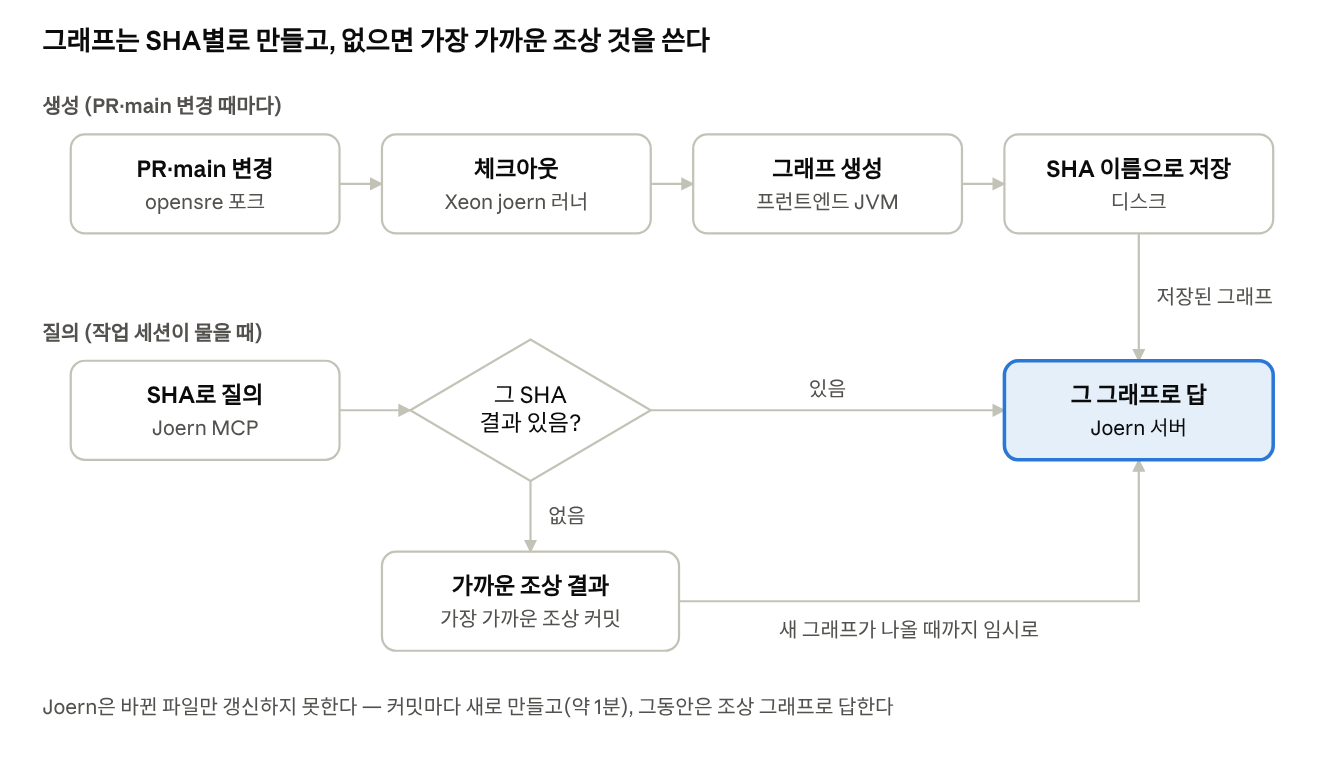
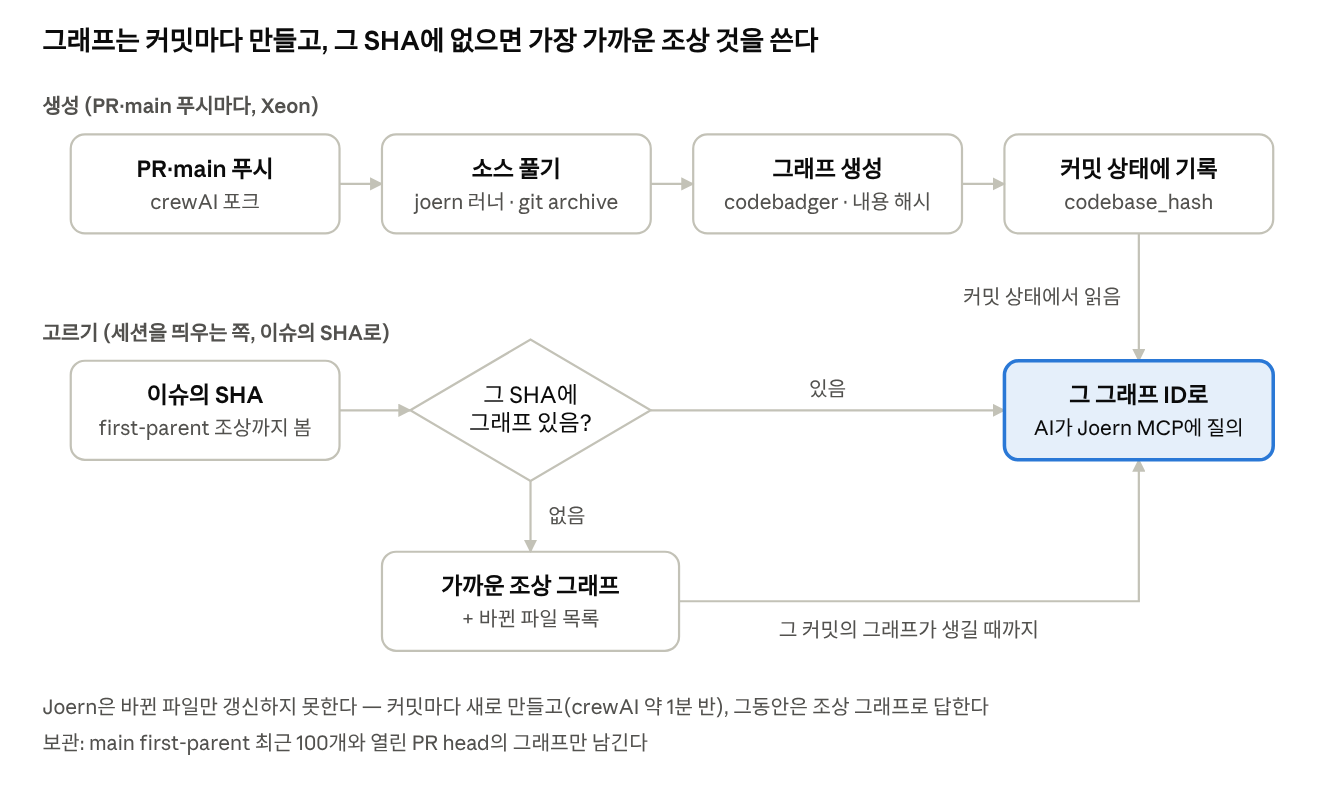
Rewrite README and usage for AI sessions, add setup guide, update architecture from step 8

diff --git a/docs/usage.md b/docs/usage.md
@@ -1,159 +1,38 @@
-# codeinside 도구 사용법
+# 도구 규칙
 
-crewAI 포크(`Munsik-Park/crewAI`)의 커밋 하나를 놓고 세 도구로 코드를 찾고 따라가는 방법이다. 명령은 4~6단계 기록에서 실제로 돌린 것이고, 그렇지 않은 것은 그 자리에 적었다. 근거는 각 절 끝에 있다.
+AI 세션용이다. 언제 어느 MCP를 쓰는지는 [README](../README.md), 환경 구축은 [setup.md](setup.md)에 있다.
 
-## 무엇을 언제 쓰나
+## ast-grep
 
-| 도구 | 이렇게 물을 때 | 도는 곳 | 주의 |
-| --- | --- | --- | --- |
-| ast-grep | 패턴에 맞는 곳을 레포 전체에서 넓게 찾기. 사전 스크립트가 규칙 5개로 후보 목록을 만든다 | 작업자 쪽 | 규칙은 opensre 때 만든 일반 Python 규칙이다. crewAI의 `lib/*/tests`도 후보에 들어간다 |
-| Serena (Pyright) | 이 심볼을 실제로 참조하는 곳, 정의, 구현 | 작업자 쪽 | 읽기 전용이다. 편집, 셸, 메모리 도구는 꺼져 있다 |
-| Joern (codebadger MCP) | 호출 관계를 몇 단계 따라가기, 데이터 흐름(어디서 들어온 값이 어디로 가나) | Xeon | 테스트 폴더는 그래프에 없다. 흔한 이름의 호출 관계는 틀린다(아래 한계) |
-
-순서는 이렇다. 후보 목록으로 넓게 보고, 정확한 참조는 Serena에, 흐름은 Joern에 묻는다.
-
-## 준비 (한 번)
-
-### 설치
-
-| 구성 | 버전 | 설치 |
-| --- | --- | --- |
-| ast-grep CLI | 0.51.2 | `brew install ast-grep` |
-| uv | 0.11.32에서 확인 | uv 문서의 설치 방법 |
-| Serena | 2.1.0 | `uv tool install -p 3.13 serena-agent==2.1.0` |
-| Pyright | 1.1.403 | 따로 설치하지 않는다. Serena가 uvx로 띄운다 |
-| gh | 인증된 상태 | 그래프 고르기가 `gh api graphql`로 커밋 상태를 읽는다 |
-| Claude Code | 2.1.322에서 확인 | MCP를 세션에 붙일 때만 필요 |
-
-근거: [4단계 기록](measurements/2026-11-12-serena-joern/README.md) 1절, [crewAI 기준값](measurements/2026-11-12-crewai-baseline/README.md) 측정 조건.
-
-### 변수
-
-아래 명령은 이 세 값을 쓴다.
-
-```bash
-export CODEINSIDE_DIR=<codeinside 체크아웃>
-export CREWAI_DIR=<crewAI 포크 체크아웃>   # codeinside 폴더 밖에 둔다
-export MCP_URL=http://127.0.0.1:<로컬 포트>/mcp
-```
-
-codebadger MCP는 Xeon 루프백(4242)에만 열려 있고 인증이 없다. 작업자 쪽에서는 SSH 터널로 로컬 포트에 붙인다. 터널 명령과 호스트는 커밋하지 않는 로컬 설정(`CLAUDE.local.md`)에 있다. 이 레포에는 적지 않는다.
-
-### crewAI 체크아웃에 Serena 설정 두기
-
-```bash
-mkdir -p "$CREWAI_DIR/.serena"
-sed 's/^project_name: .*/project_name: "crewAI"/' \
-  "$CODEINSIDE_DIR/config/serena/project.yml" > "$CREWAI_DIR/.serena/project.yml"
-python3 -c 'import json,sys; d=json.load(open(sys.argv[1])); d.pop("//",None); json.dump(d,open(sys.argv[2],"w"),indent=2)' \
-  "$CODEINSIDE_DIR/config/serena/crewai/pyrightconfig.json" "$CREWAI_DIR/pyrightconfig.json"
-```
-
-- `pyrightconfig.json`은 `lib/*/src` 6개를 import 경로에 더한다. 없으면 패키지를 넘는 참조와 테스트 쪽 참조가 풀리지 않는다.
-- 두 파일은 crewAI 쪽에 커밋하지 않는다.
-- `scripts/mcp/register.sh`는 opensre용 `project_name`을 복사하고 Pyright 설정을 두지 않는다. crewAI에는 위 명령을 쓴다.
-
-근거: [crewAI 기준값](measurements/2026-11-12-crewai-baseline/README.md) 5절, [measurements/2026-11-12-crewai-baseline/scripts/serena-refs.sh](measurements/2026-11-12-crewai-baseline/scripts/serena-refs.sh).
-
-## 1. 후보 목록 (ast-grep)
-
-분석할 커밋을 체크아웃한 뒤 돌린다.
-
-```bash
-cd "$CREWAI_DIR" && git checkout <SHA>
-python3 "$CODEINSIDE_DIR/scripts/screen/candidates.py" "$CREWAI_DIR" -o candidates.json
-```
-
-- 출력에는 ast-grep 버전, `repo_sha`, 커밋 안 된 변경이 있는지(`repo_dirty`), 규칙별 개수, 후보(파일, 시작·끝 위치, 일치한 첫 줄)가 들어간다.
-- 정렬된 JSON이라 같은 커밋에서 두 번 돌리면 바이트 단위로 같다.
-- 규칙: 환경 변수 읽기, 함수 안 `global`, 테스트 밖 `assert`, `pass`뿐인 `except`, `shell=True` subprocess. 설명은 [config/ast-grep/README.md](../config/ast-grep/README.md)에 있다.
-
-근거: [crewAI 기준값](measurements/2026-11-12-crewai-baseline/README.md) 6절.
-
-## 2. 그 커밋의 Joern 그래프 고르기
-
-포크의 PR이나 main 푸시마다 Xeon의 분석 워크플로가 그래프를 만들고, 커밋 상태 `codeinside/joern-cpg`에 `codebase_hash`를 적는다. 질의할 해시는 이 상태에서 고른다.
-
-```bash
-python3 "$CODEINSIDE_DIR/scripts/joern/resolve_graph.py" \
-  --checkout "$CREWAI_DIR" --sha <SHA> --repo Munsik-Park/crewAI --mcp-url "$MCP_URL"
-```
-
-| 출력 | 뜻 |
+| 도구 | 주요 인자 |
 | --- | --- |
-| `exact: true` | 그 커밋의 그래프다 |
-| `exact: false`, `changed_files` | first-parent 조상의 그래프로 대신했다. 목록의 파일은 답이 요청한 커밋과 다를 수 있다 |
-| `graph_sha: null` | 조상 100개 안에 그래프가 없다. 종료 코드 2 |
-| `codebadger_status: loading` | 잠든 그래프를 올리는 중이다. 재부팅 뒤 기준 그래프는 약 62초 걸렸다. 아래 명령으로 `ready`가 될 때까지 기다린 뒤 3절로 넘어간다 |
+| `find_code` | `project_folder`(체크아웃 절대 경로), `pattern`, `language`(`python`), `max_results`, `output_format`(`text`/`json`) |
+| `find_code_by_rule` | `project_folder`, `yaml`(`id`, `language`, `rule` 필수) |
+| `dump_syntax_tree` | `code`, `language`, `format`(`cst`/`ast`/`pattern`) |
+| `test_match_code_rule` | `code`, `yaml` |
 
-`loading`일 때 질의하면 `success: true`가 오지만, `data`에는 결과 대신 Joern REPL 시작 출력이 오고 끝에 `No projects loaded`가 붙는다. 결과가 비었다고 읽지 않도록 먼저 상태를 확인한다.
+사전 후보 목록의 규칙은 [config/ast-grep/](../config/ast-grep/README.md)에 있다.
 
-```bash
-uv run --no-project -q --with mcp==2.2.0 python "$CODEINSIDE_DIR/scripts/mcp/mcp_call.py" --url "$MCP_URL" \
-  --call get_cpg_status '{"codebase_hash":"<해시>"}'
-```
+## Serena
 
-출력 마지막 줄 `text`의 `status`가 `ready`이면 묻는다.
+읽기 도구 5개만 켜져 있다. `relative_path`는 체크아웃 루트 기준, `name_path`는 파일 안 심볼 경로(`BaseLLM/_emit_call_completed_event`)다.
 
-### 그래프가 없을 때
-
-포크 업스트림의 옛 커밋에는 그래프가 없다. 그 커밋을 가리키는 브랜치를 `Munsik-Park/crewAI`에 올리고 PR을 열면 워크플로가 그래프를 만든다. crewAI 규모에서 요청부터 ready까지 약 91~94초였다.
-
-- 다른 레포에서 온 PR은 워크플로가 돌지 않는다. 브랜치는 포크 안에 있어야 한다.
-- 그래프는 main first-parent 최근 100개와 열린 PR head만 남는다. PR을 닫으면 다음 정리 때 지워진다.
-
-근거: [6단계 기록](measurements/2026-11-12-pr-analysis/README.md) 6~8절.
-
-## 3. 묻기
-
-### 명령으로
-
-```bash
-uv run --no-project -q --with mcp==2.2.0 python "$CODEINSIDE_DIR/scripts/mcp/mcp_call.py" --url "$MCP_URL" \
-  --call run_cpgql_query '{"codebase_hash":"<해시>","query":"cpg.method.fullNameExact(\"lib/crewai/src/crewai/llms/base_llm.py:<module>.BaseLLM._emit_call_completed_event\").callIn.method.fullName.dedup.l"}'
-```
-
-- 첫 줄은 도구 목록, 이어서 `--call`마다 결과가 한 줄씩 나온다. `--call`은 여러 번 줄 수 있다.
-- 메서드 이름은 `<레포 기준 파일 경로>:<module>.<클래스>.<메서드>` 꼴이다.
-- 질의 예시 5개(호출하는 함수, 호출되는 함수, 두 단계 호출, 데이터 흐름 2개)는 [config/queries/crewai.json](../config/queries/crewai.json)에 있다.
-- `run_cpgql_query`의 인자는 `codebase_hash`, `query`, `timeout`(초), `validate`다.
-
-Serena도 같은 스크립트로 서버를 띄워 물을 수 있다.
-
-```bash
-uv run --no-project --with mcp==2.2.0 python "$CODEINSIDE_DIR/scripts/mcp/mcp_call.py" \
-  --call find_referencing_symbols '{"name_path":"BaseLLM/_emit_call_completed_event","relative_path":"lib/crewai/src/crewai/llms/base_llm.py"}' \
-  -- serena start-mcp-server --context "$CODEINSIDE_DIR/config/serena/context-readonly.yml" --project "$CREWAI_DIR" \
-     --agent-interface tools --enable-web-dashboard False --open-web-dashboard False
-```
-
-### Claude Code 세션에 붙여서
-
-codeinside 폴더에서 한 번 등록한다. `--scope local`이라 절대 경로는 사용자 설정에만 남고 레포에는 들어가지 않는다. 같은 이름이 이미 있으면 `claude mcp add`는 `already exists in local config`로 실패하므로(예: 4단계에서 `register.sh`로 opensre를 붙여 둔 경우), 먼저 지운다.
-
-```bash
-cd "$CODEINSIDE_DIR"
-for s in ast-grep serena joern; do claude mcp remove --scope local "$s" 2>/dev/null || true; done
-claude mcp add --scope local ast-grep -- \
-  uvx --from "git+https://github.com/ast-grep/ast-grep-mcp@51d5a23f025c73c02032a98748dc06942548c5e1" ast-grep-server
-claude mcp add --scope local serena -- \
-  serena start-mcp-server --context "$CODEINSIDE_DIR/config/serena/context-readonly.yml" --project "$CREWAI_DIR" \
-    --agent-interface tools --enable-web-dashboard False --open-web-dashboard False
-claude mcp add --scope local --transport http joern "$MCP_URL"
-claude mcp list
-```
-
-| 서버 | 쓰는 도구 |
+| 도구 | 주요 인자 |
 | --- | --- |
-| ast-grep | `find_code`(`project_folder`, `language`, `pattern`) |
-| serena | `get_symbols_overview`, `find_symbol`, `find_referencing_symbols`, `find_declaration`, `find_implementations` |
-| joern | `run_cpgql_query`, `get_cpg_status`. 해시는 2절에서 고른 것을 세션에 알려 준다 |
+| `get_symbols_overview` | `relative_path` |
+| `find_symbol` | `name_path_pattern`, `relative_path`, `depth`, `include_body` |
+| `find_referencing_symbols` | `name_path`, `relative_path`(그 심볼이 있는 파일) |
+| `find_declaration` | `relative_path`, `regex`(찾을 심볼을 그룹 하나로 감싼 정규식) |
+| `find_implementations` | `name_path`, `relative_path`(파일만) |
 
-근거: `scripts/mcp/register.sh`(ast-grep, serena 등록), [5단계 기록](measurements/2026-11-12-joern-mcp/README.md) 5절(세 서버를 한 세션에서 부름). 5단계에서는 joern을 세션 설정 파일(`--mcp-config`의 `"type": "http"`)로 붙였다. `claude mcp add --transport http`로 붙이는 것은 `claude mcp add --help`에 있는 방법이고, [사용법 확인 기록](measurements/2026-11-12-usage-check/README.md)에서 돌려 `claude mcp list`가 `Connected`를 보였다.
+## Joern
 
-## 한계
+| 도구 | 주요 인자 |
+| --- | --- |
+| `get_cpg_status` | `codebase_hash`. 응답의 `status`가 `ready`여야 묻는다 |
+| `run_cpgql_query` | `codebase_hash`, `query`(CPGQL), `timeout`(초), `validate` |
 
-- 흔한 이름(`close` 같은)이나 다른 곳에서 다시 내보낸 심볼은 Joern 호출 관계를 쓰지 않는다. crewAI `Memory.close`는 Joern이 이은 7곳이 모두 다른 객체의 `close()`였다. 이런 경우는 Serena에 묻는다.
-- Joern 그래프에는 `tests/`, `lib/*/tests/`, `platform_catalog.py`가 빠져 있다. 테스트에서의 호출은 Serena로 본다.
-- codebadger는 같은 질의 결과를 300초 동안 캐시한다. 시간을 잴 때는 질의 문자열을 바꾼다.
-- 조상 그래프로 대신했으면 `changed_files`에 있는 파일의 답은 믿지 않는다.
+- 메서드 이름: `<레포 기준 파일 경로>:<module>.<클래스>.<메서드>`. 예: `lib/crewai/src/crewai/llms/base_llm.py:<module>.BaseLLM._emit_call_completed_event`
+- `loading` 중 응답: `success: true`이고, `data`는 결과 대신 Joern REPL 시작 출력이며 끝 줄이 `io.joern.console.Error: No projects loaded`다([확인 기록](measurements/2026-11-12-usage-check/README.md) 2절).
+- 같은 질의 문자열의 결과는 300초 동안 캐시된다.
+- 질의 예시: [config/queries/crewai.json](../config/queries/crewai.json)(Q1 호출하는 함수, Q2 호출되는 함수, Q3 두 단계 호출, Q4와 Q5 데이터 흐름)

diff --git a/docs/setup.md b/docs/setup.md
@@ -1,0 +1,44 @@
+# 환경 구축
+
+순서대로 한다. 각 스크립트의 사용법은 머리 주석에 있다. 서버 주소, 계정, 터널 명령은 이 레포에 넣지 않는다.
+
+## 1. Xeon
+
+| 할 일 | 링크 |
+| --- | --- |
+| codebadger 올리기(패치, 설정) | [scripts/xeon/deploy-codebadger.sh](../scripts/xeon/deploy-codebadger.sh), [config/codebadger/](../config/codebadger/) |
+| 이미지 묶음 저장, 부팅 복원 유닛 | [scripts/xeon/save-codebadger-images.sh](../scripts/xeon/save-codebadger-images.sh), [config/codebadger/systemd/](../config/codebadger/systemd/) |
+| 분석 러너 설치 | [scripts/xeon/joern-ci/install.sh](../scripts/xeon/joern-ci/install.sh), [config/joern-ci/runner.conf.example](../config/joern-ci/runner.conf.example) |
+
+## 2. 대상 레포 CI 연결
+
+| 할 일 | 링크 |
+| --- | --- |
+| 워크플로 견본을 대상 레포 `.github/workflows/`에 복사 | [config/joern-ci/workflow.example.yml](../config/joern-ci/workflow.example.yml) |
+| 러너 대상 레포 변경 | [scripts/xeon/joern-ci/retarget.sh](../scripts/xeon/joern-ci/retarget.sh) |
+| 그래프 제외 규칙(`exclusion_patterns`) | [config/codebadger/codebadger-v0.7.0-beta.patch](../config/codebadger/codebadger-v0.7.0-beta.patch) |
+| 확인 질의 파일 | [config/queries/crewai.json](../config/queries/crewai.json) |
+
+## 3. AI가 도는 머신
+
+| 구성 | 버전 | 설치 |
+| --- | --- | --- |
+| ast-grep CLI | 0.51.2 | `brew install ast-grep` |
+| uv | 0.11.32 | uv 문서의 설치 방법 |
+| Serena | 2.1.0 | `uv tool install -p 3.13 serena-agent==2.1.0` |
+| Pyright | 1.1.403 | Serena가 uvx로 띄운다 |
+| gh | 인증된 상태 | 그래프 고르기가 커밋 상태를 읽는다 |
+| Claude Code | 2.1.322 | |
+
+- MCP 등록: [scripts/mcp/register.sh](../scripts/mcp/register.sh). Pyright 설정 예: [config/serena/crewai/pyrightconfig.json](../config/serena/crewai/pyrightconfig.json)
+- `JOERN_MCP_URL`은 커밋하지 않는 로컬 설정에서 읽는다.
+
+## 4. 세션을 띄우는 쪽
+
+- 이슈의 SHA를 그래프 ID로 바꾼다: [scripts/joern/resolve_graph.py](../scripts/joern/resolve_graph.py)
+- 세션에는 체크아웃 경로, SHA, 출력의 `codebase_hash`를 넘긴다. `exact: false`이면 `changed_files`도 넘긴다.
+
+## 5. 확인 기록
+
+- [2026-11-12-usage-check](measurements/2026-11-12-usage-check/README.md): 명령을 crewAI에서 다시 돌린 결과
+- [2026-11-12-ai-docs](measurements/2026-11-12-ai-docs/README.md): 등록 스크립트, 워크플로 견본, AI 세션 확인

diff --git a/docs/architecture.md b/docs/architecture.md
@@ -1,20 +1,20 @@
 # AI 코드 분석 도구 아키텍처
 
-2026-11-11 · 원본: [claude.ai 문서](https://claude.ai/artifact/2PktctuX9b6wScTJREtxjf). 이 파일은 작업자가 읽을 수 있도록 레포에 넣은 사본이다. 원본이 바뀌면 이 파일도 같이 고친다.
+2026-11-12 · 원본: [claude.ai 문서](https://claude.ai/artifact/2PktctuX9b6wScTJREtxjf). 이 파일은 작업자가 읽을 수 있도록 레포에 넣은 사본이다. 원본이 바뀌면 이 파일도 같이 고친다.
 
 단계별 일정과 남은 결정은 [plan.md](plan.md)에 있다.
 
 ## 한눈에 보기
 
-![전체 블록도 · GitHub, Xeon, Ryzen, 작업자 쪽](images/arch-overview.png)
+![전체 블록도 · GitHub, Xeon, Ryzen, AI가 도는 머신](images/arch-overview.png)
 
 Xeon만 새 역할을 맡고, Ryzen은 지금처럼 러너로만 쓴다.
 
 ## Xeon 내부
 
-![Xeon 내부 · NUMA 노드와 JVM 배치](images/arch-xeon-numa.png)
+![Xeon 내부 · NUMA 노드 3과 메모리 배치](images/arch-xeon-numa.png)
 
-노드 번호와 `-Xmx` 값은 기준값을 잰 뒤에 정한다.
+값을 정한 근거는 [5단계 기록](measurements/2026-11-12-joern-mcp/README.md)에 있다.
 
 ## 분석 흐름
 
@@ -22,11 +22,11 @@ Xeon만 새 역할을 맡고, Ryzen은 지금처럼 러너로만 쓴다.
 
 브랜치 이름이 아니라 커밋 SHA로 찾으므로, 같은 커밋은 언제 물어도 같은 그래프가 답한다.
 
-## criterion review와 도구
+## AI 세션과 도구
 
-![criterion review 단계와 도구 대응](images/arch-criterion-review.png)
+![질문별 도구 고르기](images/arch-ai-session.png)
 
-도구는 찾기와 따라가기만 맡고, 항목을 뽑고 판정하는 일은 AI가 그대로 한다.
+도구는 찾기와 따라가기만 맡고, 판정은 AI가 한다. 세션을 띄우는 쪽이 이슈의 SHA를 그래프 ID로 바꿔 넘긴다.
 
 ## codeinside 레포 구성
 

diff --git a/README.md b/README.md
@@ -1,11 +1,31 @@
 # codeinside
 
-AI 코드 분석 도구(ast-grep, Joern) 도입을 실험하는 레포다.
+분석 대상 레포의 코드를 AI 세션이 MCP 3개로 찾고 따라가게 하는 도구 레포다.
 
-- 대상 레포: [Munsik-Park/crewAI](https://github.com/Munsik-Park/crewAI) 포크(6단계부터)
-- 3~5단계 시험 레포: [Munsik-Park/opensre](https://github.com/Munsik-Park/opensre) 포크
-- 분석 서버: 사내 Xeon 서버
+## MCP
 
-계획은 [docs/plan.md](docs/plan.md), 구조는 [docs/architecture.md](docs/architecture.md)에 있다.
+| MCP | 쓰는 질문 |
+| --- | --- |
+| ast-grep | 패턴에 맞는 곳을 레포 전체에서 넓게 찾기 |
+| Serena | 심볼을 실제로 참조하는 곳, 정의, 구현 |
+| Joern | 호출 관계를 몇 단계 따라가기, 값의 흐름 |
 
-사용법은 [docs/usage.md](docs/usage.md)에 있다.
+## 세션이 받는 값
+
+- 분석 대상 체크아웃 경로
+- 이슈의 SHA
+- 그 SHA의 그래프 ID(`codebase_hash`)
+
+## 규칙
+
+- Joern은 `get_cpg_status`가 `ready`일 때만 묻는다.
+- 흔한 이름이나 다시 내보낸 심볼의 호출 관계는 Serena로 본다.
+- 테스트 폴더는 Joern 그래프에 없다. 테스트 쪽은 Serena로 본다.
+- 조상 그래프로 받았으면 바뀐 파일 목록에 든 파일의 답은 믿지 않는다.
+
+## 문서
+
+- [docs/usage.md](docs/usage.md): 도구 이름, 인자, 응답 모양
+- [docs/setup.md](docs/setup.md): 환경 구축
+- [docs/architecture.md](docs/architecture.md): 구성
+- [docs/plan.md](docs/plan.md): 계획과 단계 기록

diff --git a/docs/measurements/2026-11-12-ai-docs/README.md b/docs/measurements/2026-11-12-ai-docs/README.md
@@ -8,3 +8,13 @@
 | `.serena/project.yml` | `project_name: "crewAI"`. 설정 값 13개가 [사용법 확인](../2026-11-12-usage-check/README.md) 방식으로 만든 파일과 같다 | [serena-pyright-compare.log](raw/serena-pyright-compare.log) |
 | `pyrightconfig.json` | 사용법 확인 때 만든 파일과 바이트 단위로 같다. `extraPaths` 6개 | 같은 파일 |
 | `config/joern-ci/workflow.example.yml` | crewAI main(`76fd6d3`) 워크플로와의 차이는 머리 주석 5줄뿐이다 | [workflow-example.diff](raw/workflow-example.diff) |
+
+## 2. AI 세션 확인
+
+`claude -p`에 README.md 읽기와 MCP 3개만 허용했다(`--strict-mcp-config`). 받은 값은 crewAI 체크아웃, main `76fd6d3`, 그래프 ID `adfc58f938d764b9`다([ai-session.log](raw/ai-session.log)).
+
+| 질문 | 세션이 고른 도구 | 답 | 기준 |
+| --- | --- | --- | --- |
+| `BaseLLM._emit_call_completed_event`를 실제로 참조하는 곳 | `get_cpg_status`(ready 확인), Serena `find_referencing_symbols` | 73 | Serena 73, 같다 |
+| 그 함수를 부르는 함수, 두 단계 위까지 | Joern `get_call_graph`(E040 오류), `run_cpgql_query`, Serena `find_referencing_symbols`(테스트 쪽) | 49 | Joern Q3 64, 다르다 |
+| 함수 안에서 `global` 문을 쓰는 곳 | ast-grep `find_code_by_rule` | 17 | `py-global-state` 17, 같다 |
